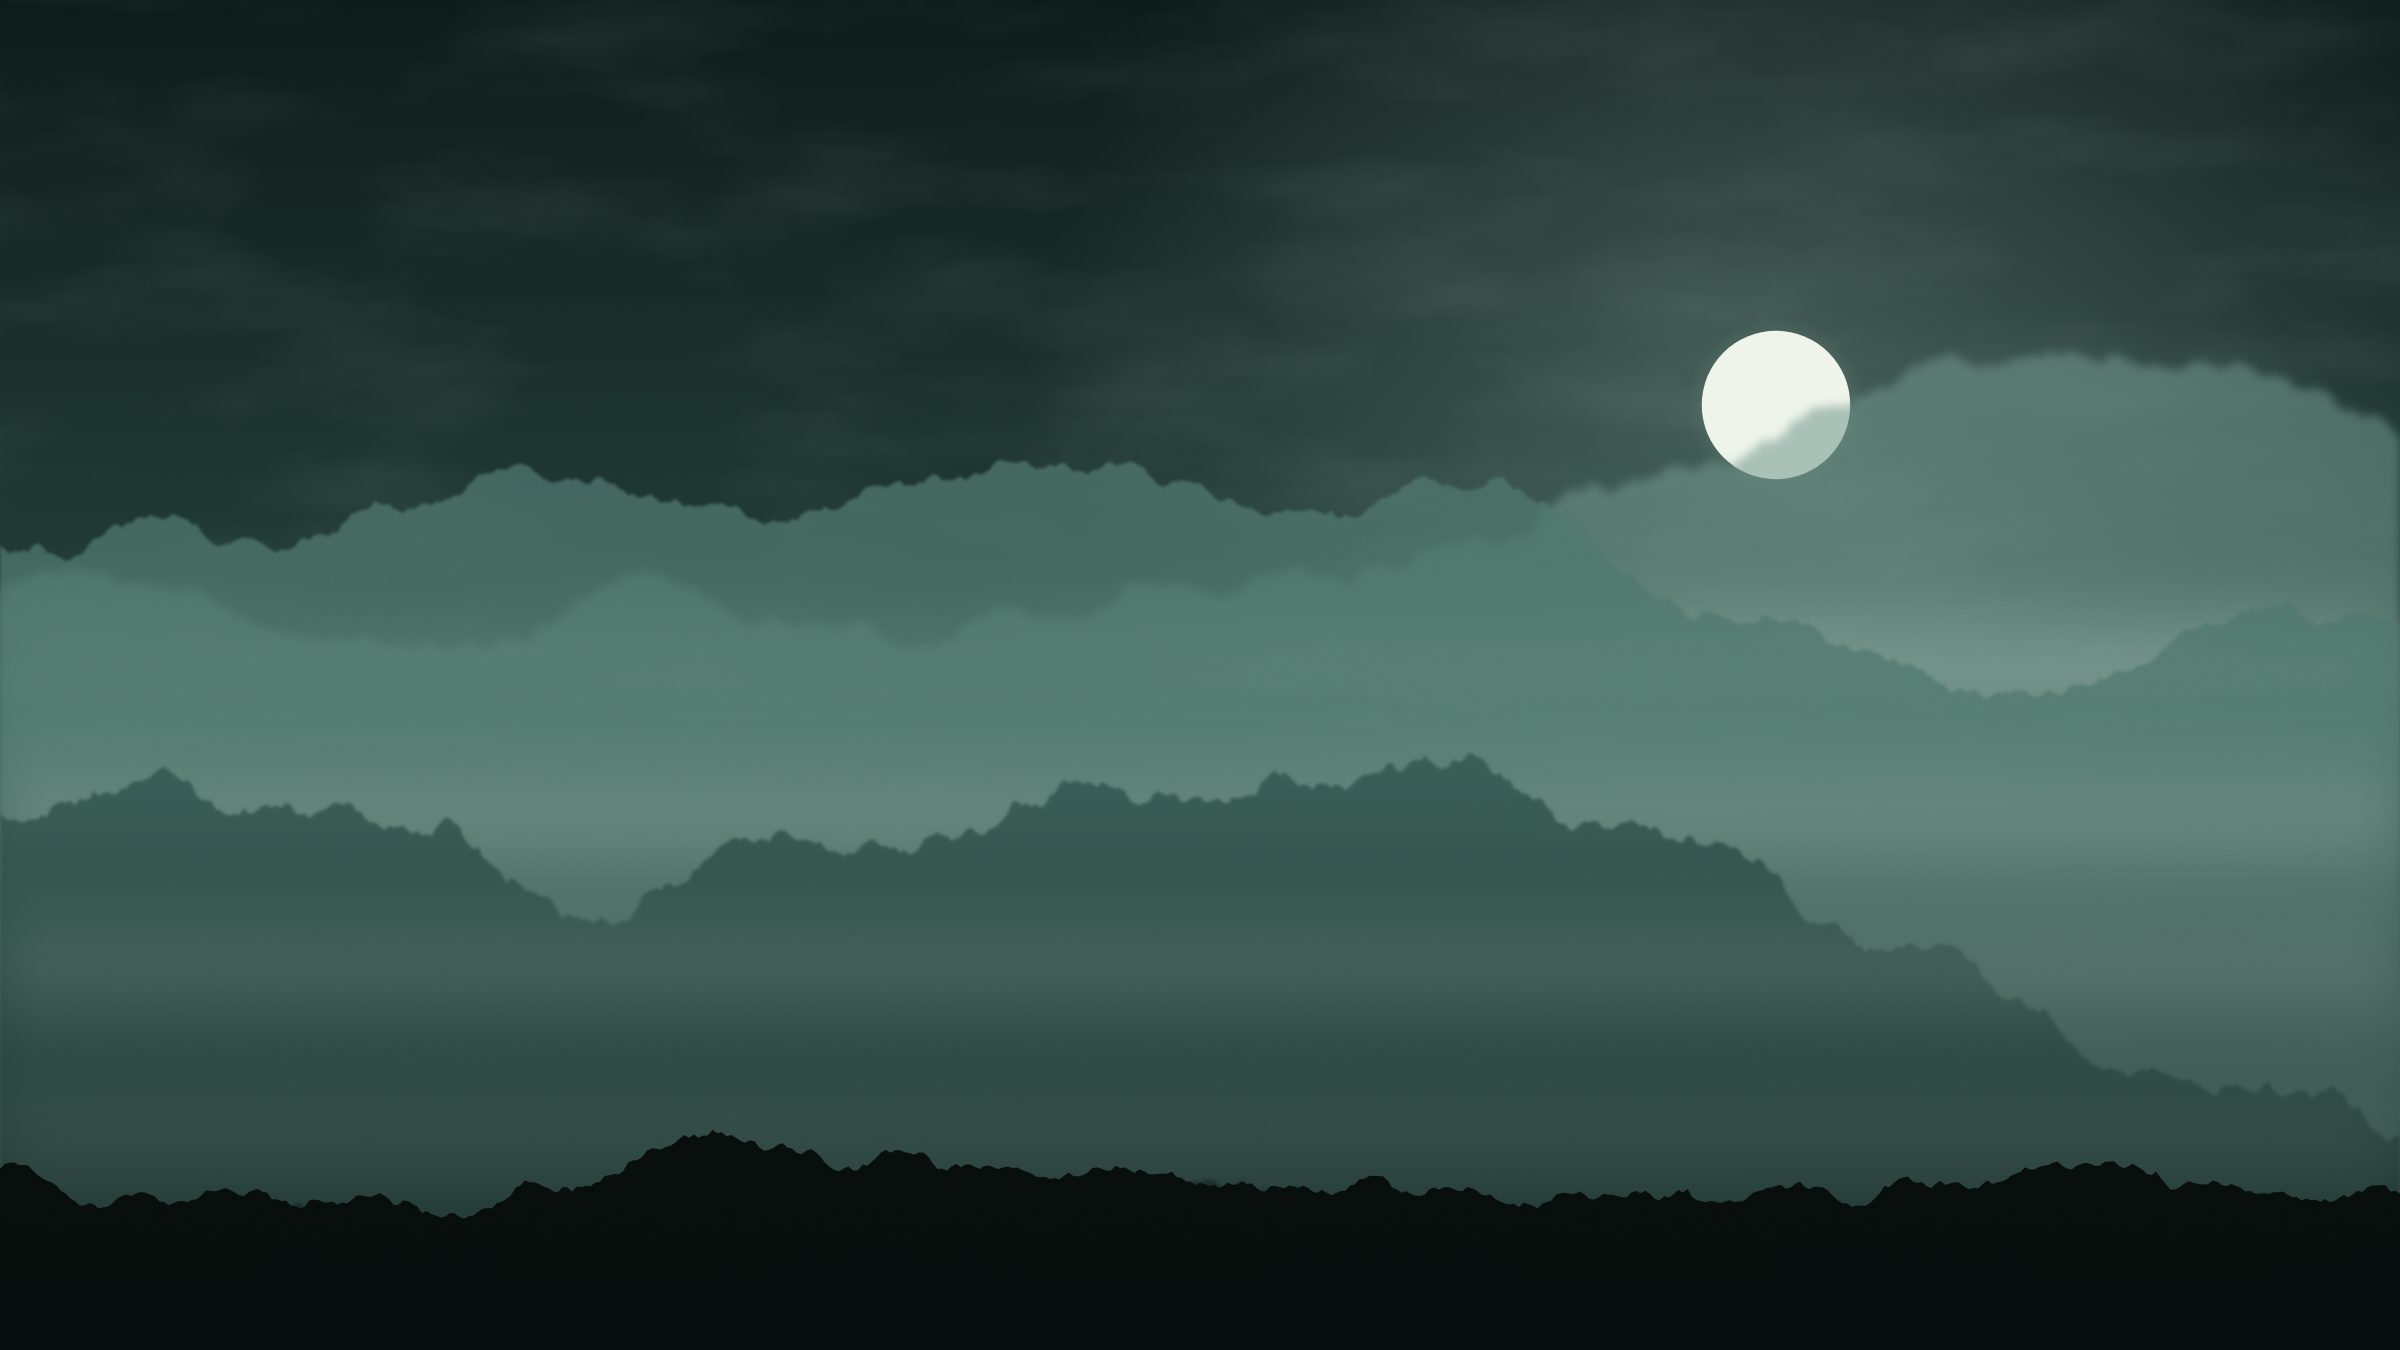
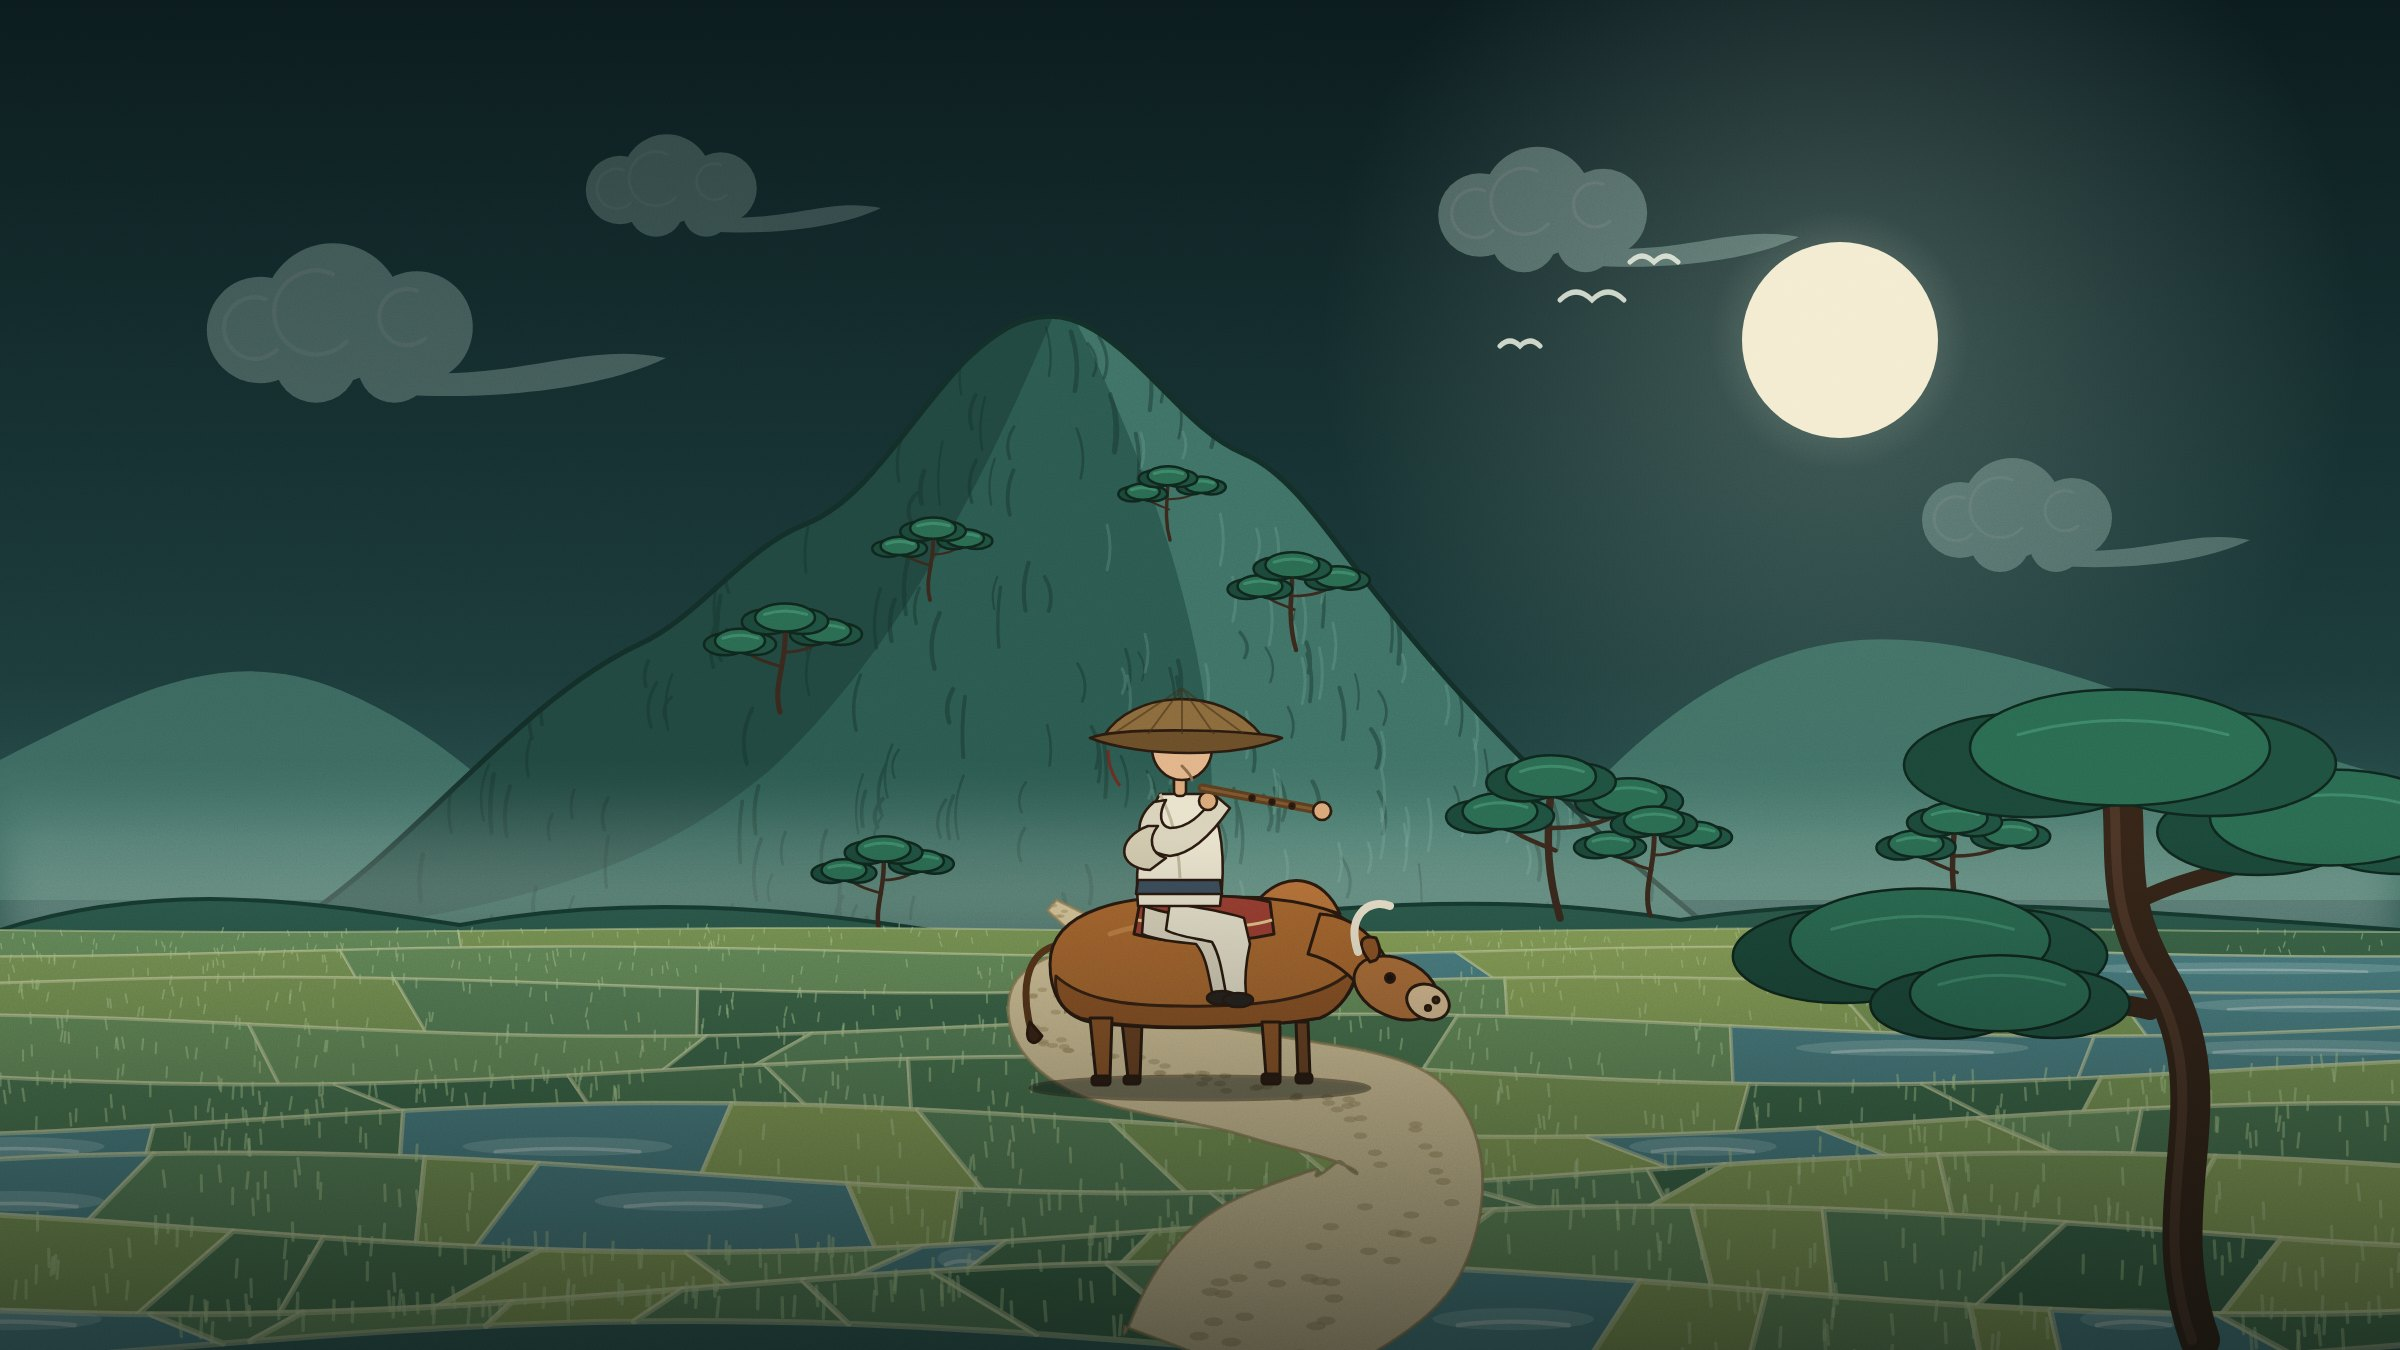
Replace hero art with Korean folk-painting style illustration
Claude-Session: https://claude.ai/code/session_01JqaW6WorVVykp8hVoVb4eV

diff --git a/styles.css b/styles.css
@@ -46,7 +46,7 @@ ul, ol { list-style: none; }
   background:
     linear-gradient(0deg, var(--bg) 0%, rgb(10 16 15 / 0) 38%),
     linear-gradient(90deg, rgb(10 16 15 / .55) 0%, rgb(10 16 15 / 0) 60%),
-    url("assets/hero.jpg") 62% center / cover no-repeat,
+    url("assets/hero.jpg") 50% center / cover no-repeat,
     var(--bg);
 }
 .hero__in { padding-block: calc(var(--nav-h) + 24px) clamp(56px, 12vh, 112px); }
@@ -121,6 +121,12 @@ ul, ol { list-style: none; }
 
 /* 모바일 */
 @media (max-width: 767px) {
+  .hero {
+    background:
+      linear-gradient(0deg, var(--bg) 34%, rgb(10 16 15 / 0) 58%),
+      url("assets/hero.jpg") 70% 0 / auto 60% no-repeat,
+      var(--bg);
+  }
   .bento { grid-template-columns: 1fr; }
   .bento__cell--a, .bento__cell--b, .bento__cell--c, .bento__cell--d { grid-column: auto; min-height: 0; }
   .about__body { margin-left: 0; }
